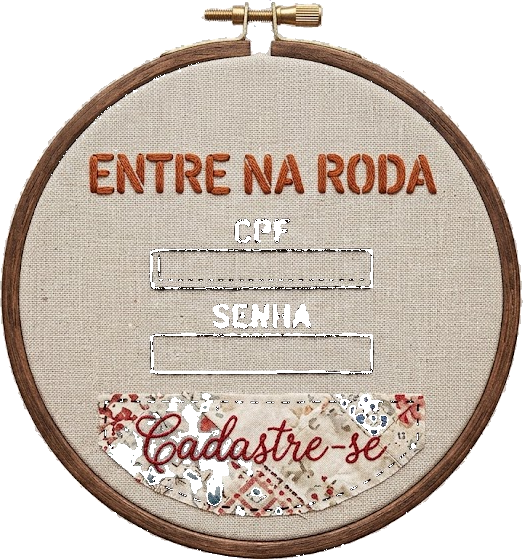
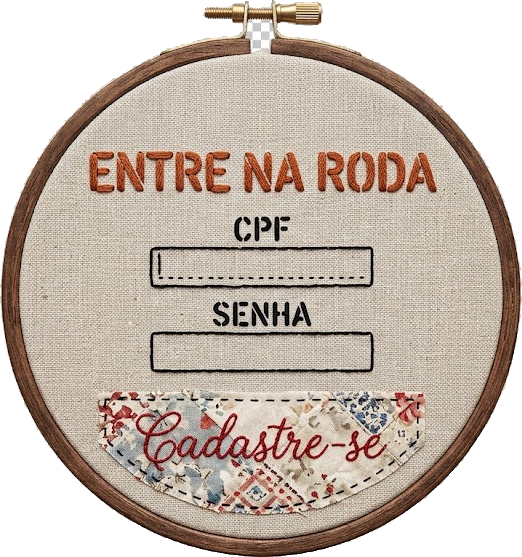
fix(login): preservar bordado escuro no recorte + ajustes da home
- causa dos rotulos CPF/SENHA apagados: o recorte marcava TODO pixel
  cinza como fundo, e o bordado preto e' cinza puro. Agora o fundo e'
  descoberto por flood-fill a partir da borda, entao nada dentro do
  bastidor e' removido (41.874 px de bordado escuro preservados)
- marca da home em 130px (size 'brand')
- manifesto alinhado ao centro do bastidor de login (items-center)

diff --git a/apps/web/app/page.tsx b/apps/web/app/page.tsx
@@ -22,11 +22,12 @@ export default function HomePage() {
   return (
     <main className="min-h-screen bg-linen-texture px-6 py-12 sm:px-8">
       <div className="mx-auto flex max-w-5xl flex-col items-center gap-12">
-        {/* Marca centralizada — três voltas lentas ao carregar (spin-3). */}
-        <EmbroideryLogo size="lg" className="animate-spin-3" />
+        {/* Marca centralizada (130px) — três voltas lentas ao carregar. */}
+        <EmbroideryLogo size="brand" className="animate-spin-3" />
 
-        {/* Manifesto à esquerda; login/cadastro + sugestão à direita. */}
-        <div className="grid w-full items-start gap-10 md:grid-cols-2 md:gap-14">
+        {/* Manifesto à esquerda; login/cadastro + sugestão à direita.
+            items-center alinha o texto ao centro do bastidor de login. */}
+        <div className="grid w-full items-center gap-10 md:grid-cols-2 md:gap-14">
           <p className="font-subheading text-xl font-bold leading-relaxed text-embroidery-black sm:text-2xl">
             {MANIFESTO}
           </p>

diff --git a/apps/web/src/components/LoginCardArte.tsx b/apps/web/src/components/LoginCardArte.tsx
@@ -15,9 +15,11 @@ import { useAuth } from "@/lib/auth-context";
 // tamanho de tela sem sair do lugar.
 //
 // As posições vêm da medição dos retângulos bordados no PNG (523x559).
+// Retângulos medidos no PNG (522x557), com uma folga para o texto ficar
+// dentro do pesponto e não encostar na borda bordada.
 const CAMPOS = {
-  cpf: { left: "29.7%", top: "45.4%", width: "40.6%", height: "5.9%" },
-  senha: { left: "29.9%", top: "60.5%", width: "40.4%", height: "5.6%" },
+  cpf: { left: "29.8%", top: "45.3%", width: "40.6%", height: "6.0%" },
+  senha: { left: "30.0%", top: "60.5%", width: "40.4%", height: "5.6%" },
   cadastre: { left: "20%", top: "69%", width: "60%", height: "19%" },
 } as const;
 

diff --git a/apps/web/src/components/EmbroideryLogo.tsx b/apps/web/src/components/EmbroideryLogo.tsx
@@ -1,7 +1,7 @@
 import React from 'react';
 
 interface EmbroideryLogoProps {
-  size?: 'sm' | 'md' | 'lg' | 'xl';
+  size?: 'sm' | 'brand' | 'md' | 'lg' | 'xl';
   className?: string;
 }
 
@@ -11,6 +11,8 @@ interface EmbroideryLogoProps {
 // em CSS (.embroidery-frame + fonte manuscrita).
 const sizeClasses = {
   sm: 'w-24 h-24',
+  // Marca da página inicial: 130px, definido pelo cliente.
+  brand: 'w-[130px] h-[130px]',
   md: 'w-40 h-40',
   lg: 'w-56 h-56',
   // Marca em destaque na tela de login (~+200px sobre o tamanho anterior).